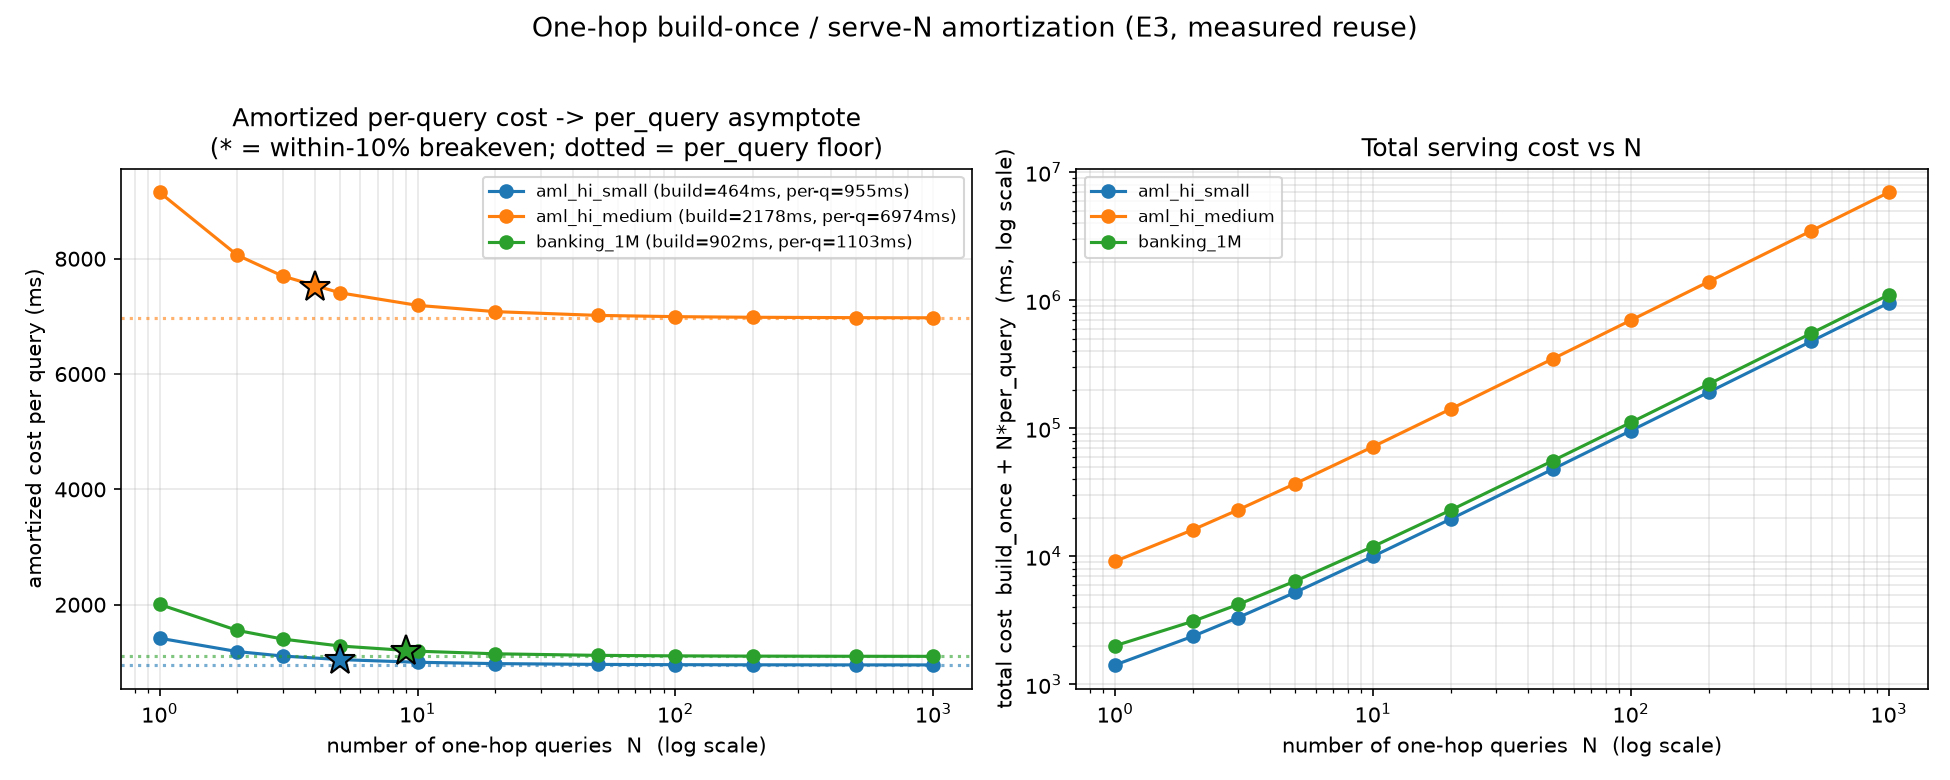
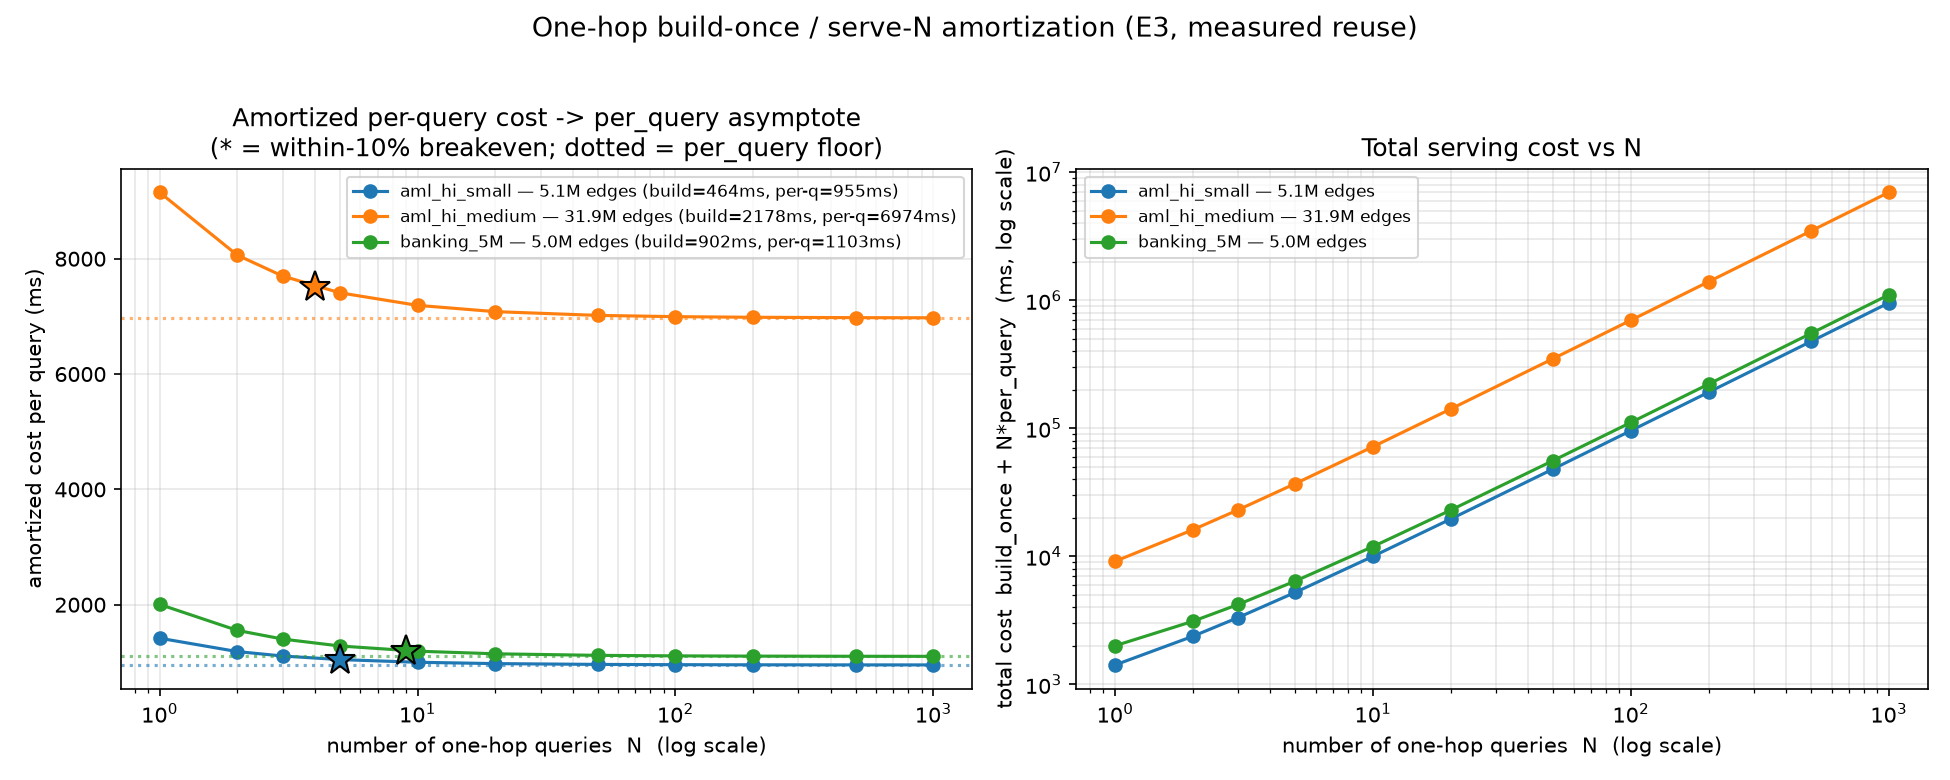
Label amortization plot by edge count (banking_1M shown as banking_5M)
The legend named datasets by node count, which is misleading: banking_1M has
1M accounts but 5M edges. Add each series' edge count to the legend and display
banking_1M as banking_5M (registry/CSV keys unchanged). AML sets now show 5.1M
and 31.9M edges. Regenerated from the existing CSVs; no re-run needed.

Changed region(s): [[0.1846, 0.2154, 0.4615, 0.3385], [0.6462, 0.2154, 0.7385, 0.3385]]

diff --git a/scripts/experiments/plot_one_hop_amortization.py b/scripts/experiments/plot_one_hop_amortization.py
@@ -28,10 +28,23 @@ import matplotlib.pyplot as plt
 PROJECT_DIR = Path(__file__).resolve().parent.parent.parent
 RESULTS_DIR = PROJECT_DIR / "results" / "one_hop_amortization"
 
+# Display names for the legend (the CSV/registry keys stay unchanged).
+# banking_1M is named for its 1M accounts but carries 5M edges, so label it by edges.
+DISPLAY_NAME = {"banking_1M": "banking_5M"}
+
 
 def load_csv(path: Path):
     with open(path) as f:
         return list(csv.DictReader(f))
+
+
+def fmt_edges(n: int) -> str:
+    """Human-readable edge count, e.g. 5000000 -> '5.0M', 31898238 -> '31.9M'."""
+    if n >= 1_000_000:
+        return f"{n / 1_000_000:.1f}M"
+    if n >= 1_000:
+        return f"{n / 1_000:.0f}K"
+    return str(n)
 
 
 def main():
@@ -57,9 +70,12 @@ def main():
         tot = [float(r["total_ms"]) for r in rows]
         per_query = float(measured[ds]["per_query_ms"])
         build_once = float(measured[ds]["build_once_ms"])
+        edges = fmt_edges(int(measured[ds]["num_edges"]))
         be = int(float(measured[ds]["breakeven_n_within10pct"]))
         color = cmap(i)
-        label = f"{ds} (build={build_once:.0f}ms, per-q={per_query:.0f}ms)"
+        name = DISPLAY_NAME.get(ds, ds)
+        label = f"{name} — {edges} edges (build={build_once:.0f}ms, per-q={per_query:.0f}ms)"
+        tot_label = f"{name} — {edges} edges"
 
         ax_amz.plot(ns, amz, "o-", color=color, label=label)
         ax_amz.axhline(per_query, color=color, ls=":", alpha=0.6)
@@ -67,7 +83,7 @@ def main():
             ax_amz.plot([be], [build_once / be + per_query], marker="*", color=color,
                         markersize=15, markeredgecolor="black", zorder=5)
 
-        ax_tot.plot(ns, tot, "o-", color=color, label=ds)
+        ax_tot.plot(ns, tot, "o-", color=color, label=tot_label)
 
     ax_amz.set_xscale("log")
     ax_amz.set_xlabel("number of one-hop queries  N  (log scale)")
